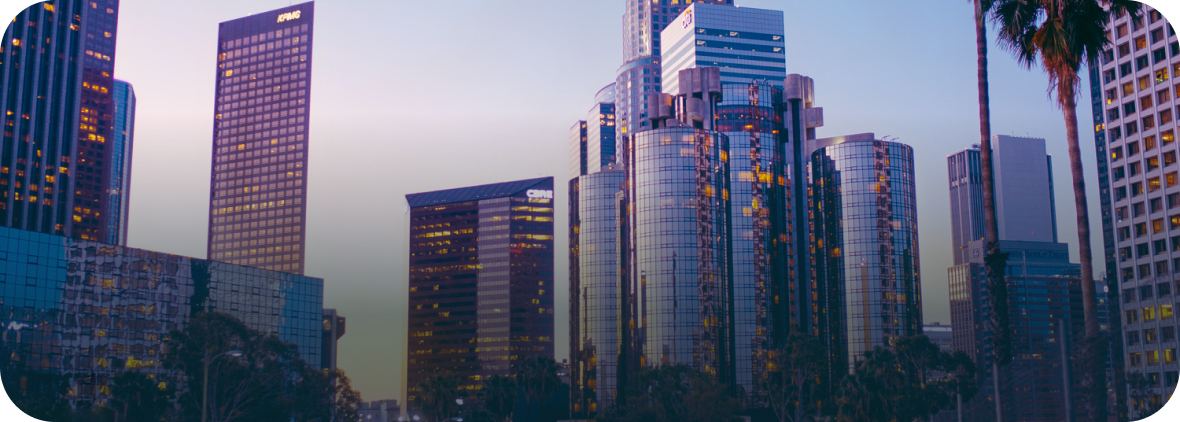
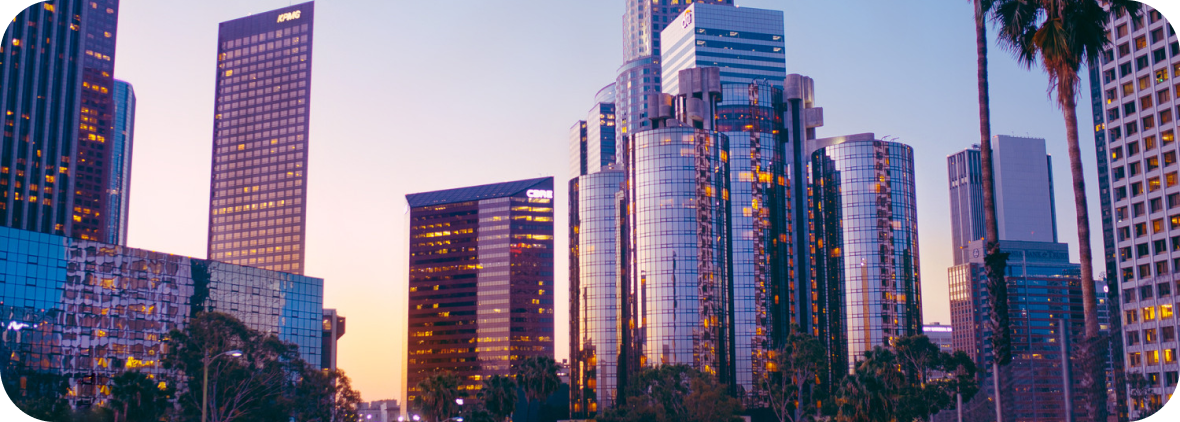
update page downtown

diff --git a/src/scss/_page-location.scss b/src/scss/_page-location.scss
@@ -3,13 +3,20 @@
 .location {
   // .location__container
   &__container {
+    padding-bottom: 50px;
   }
   // .location__inner
   &__inner {
+    padding-top: 20px;
+    display: flex;
+    flex-direction: column;
+    row-gap: 20px;
   }
   // .location__bg
   &__bg {
+    position: relative;
     min-height: 422px;
+    border-radius: 55px;
     display: flex;
     justify-content: center;
     align-items: center;
@@ -17,9 +24,22 @@
     background-size: cover;
     background-repeat: no-repeat;
     background-position: center;
+    &::before{
+      content:'';
+      position: absolute;
+      top: 0;
+      left: 0;
+      z-index: 0;
+      width: 100%;
+      height: 100%;
+      background: linear-gradient(180deg, rgba(7, 36, 48, 0.00) 26.66%, rgba(7, 36, 48, 0.60) 74.73%);
+      border-radius: 30px;
+      border-radius: 55px;
+    }
   }
   // .location__title
   &__title {
+    z-index: 1;
     h3 {
       @extend %raleway-500;
       font-size: rem(64);
@@ -30,15 +50,29 @@
   }
   // .location__info
   &__info {
+    padding-top: 10px;
+    display: grid;
+    row-gap: 15px;
   }
   // .location__info-text
   &__info-text {
+    @extend %mulish-500;
+    font-size: rem(16);
+    line-height: math.div(26 , 16);
+
   }
   // .location__action
   &__action {
   }
   // .location__btn
   &__btn {
+    text-align: center;
+    padding: 15px 40px;
+    border-radius: 56px;
+    @extend %mulish-800;
+    font-size: rem(14);
+    line-height: 120%;
+    text-transform: uppercase;
   }
 }
 
@@ -48,9 +82,14 @@
 .transport {
   // .transport__container
   &__container {
+    padding-top: 50px;
+    padding-bottom: 50px;
   }
   // .transport__inner
   &__inner {
+    display: flex;
+    flex-direction: column;
+    row-gap: 30px;
   }
   // .transport__title
   &__title {
@@ -73,15 +112,42 @@
     border-radius: 50px;
     background-color: $white;
     display: flex;
+    align-items: center;
+    column-gap: 10px;
+
   }
   // .transport__item-img
   &__item-img {
+    display: flex;
+    align-items: center;
+    justify-content: center;
+    flex-shrink: 0;
+    width: 64px;
+    height: 64px;
+    border-radius: 50%;
+    background-color: $yelow;
+    filter: drop-shadow(-1px -1px 12px rgba(0, 0, 0, 0.05)) drop-shadow(1px 1px 12px rgba(0, 0, 0, 0.05));
+    img {
+      width: 35px;
+      height: 35px;
+    }
   }
   // .transport__item-info
   &__item-info {
+    span {
+      @extend %raleway-400;
+      font-size: rem(16);
+      line-height: math.div(22 , 16);
+      text-transform: uppercase;
+      font-variant-numeric: lining-nums proportional-nums;
+    }
   }
   // .transport__item-title
   &__item-title {
+    @extend %raleway-600;
+    font-size: rem(24);
+    line-height: math.div(34 , 24);
+    text-transform: uppercase;
   }
 }
 //========================================================================================================================================================

diff --git a/src/page-downtown.html b/src/page-downtown.html
@@ -63,7 +63,7 @@
 								</p>
 							</div>
 							<div class="location__action">
-								<a class="location__btn btn">ПОЛУЧИТЬ КАТОЛОГ ВСЕХ ОБЪЕКТОВ В Dubai Marina</a>
+								<button class="location__btn btn">ПОЛУЧИТЬ КАТОЛОГ ВСЕХ ОБЪЕКТОВ В Dubai Marina</button>
 							</div>
 						</div>
 					</div>
@@ -148,7 +148,43 @@
 					</div>
 				</section>
 				<!-- end transport -->
-
+				<section class="location-realty">
+					<div class="location-realty__container">
+						<div class="location-realty__inner">
+							<div class="location-realty__title">
+								<h3>Недвижимость в районе Downtown Dubai</h3>
+							</div>
+							<div class="realty">
+								<div class="realty__items">
+									<div class="realty__item">
+										<div class="realty__img-ibg">
+											<img src="@img/realty/1.png" alt="realty">
+										</div>
+										<div class="realty__item-box">
+												<div class="realty__item-title">
+													<h4>Mushrif Village</h4>
+												</div>
+												<div class="realty__price">
+													<div class="realty__price-icon">
+														<img src="@img/realty/icons/icon-price.svg" alt="icon-price">
+													</div>
+													<div class="realty__price-info">
+														<p class="realty__price-text">от $2 000 000</p>
+													</div>
+												</div>
+										</div>
+										<div class="realty__deadline-info">
+											<p class="realty__deadline-text">от $2 000 000</p>
+										</div>
+										<div class="realty__info">
+											
+										</div>
+									</div>
+								</div>
+							</div>
+						</div>
+					</div>
+				</section>
 				<!-- start telegram -->
 				<!-- @@include('html/blocks/_telegram.htm', {}) -->
 				<!-- end telegram -->

diff --git a/src/scss/vars.scss b/src/scss/vars.scss
@@ -34,6 +34,7 @@ $grey: #F5F7FA;
   @extend %mulish-800;
   font-size: rem(20);
   line-height: 120%;
+  border: 1px solid #FFF;
   background: linear-gradient(100.21deg, #FFC95E -41.54%, #FFC95E -22.64%, #FFDD99 -9.16%, #FFC95E 1.25%);
   box-shadow: 0px 4px 4px rgba(255, 204, 102, 0.3), inset 6px 2px 18px #FFE4AE;
   border-radius: 0px 35px 35px 35px;

diff --git a/src/scss/style.scss b/src/scss/style.scss
@@ -161,3 +161,6 @@ body {
 @import "blocks/breadcrumbs";
 //Блок Телеграм
 @import "blocks/telegram";
+
+//Блок недвижимость
+@import "blocks/realty";
